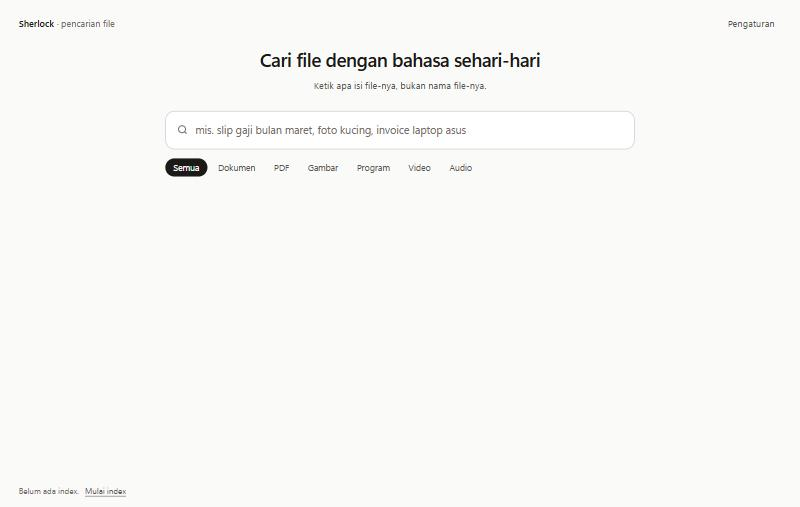
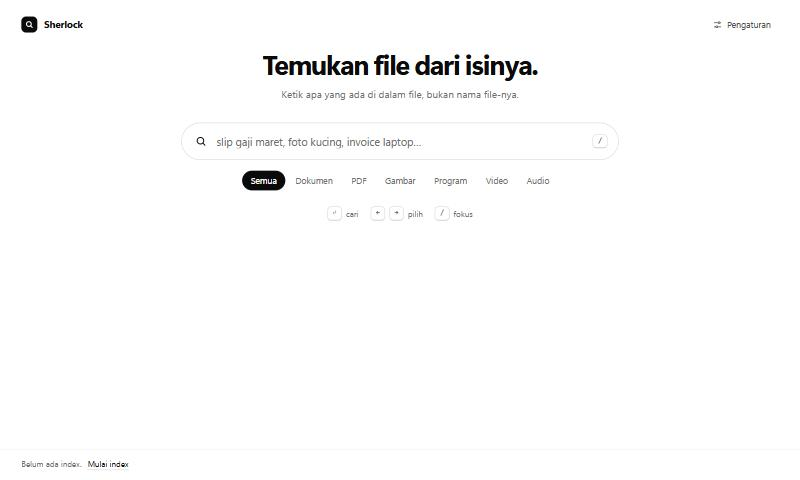
Restyle UI: minimal black and white
Pure neutral palette with dark mode, pill search with keyboard hints,
"/" to focus search, cleaner gallery cards and grouped settings.
Updates the README screenshot.

diff --git a/ui.html b/ui.html
@@ -6,13 +6,15 @@
 <title>Sherlock</title>
 <style>
 :root {
-  --bg: #fafaf9; --surface: #ffffff; --text: #1c1917; --muted: #57534e; --faint: #736c67;
-  --line: #e7e5e4; --hover: #f5f5f4; --accent: #1c1917; --accent-text: #fafaf9; --danger: #b91c1c;
+  --bg: #ffffff; --surface: #ffffff; --sunken: #f6f6f6; --text: #0a0a0a; --muted: #4a4a4a; --faint: #6e6e6e;
+  --line: #e8e8e8; --line-strong: #d4d4d4; --hover: #f4f4f4; --accent: #0a0a0a; --accent-text: #ffffff;
+  --shadow: 0 1px 2px rgba(0,0,0,.04), 0 8px 24px rgba(0,0,0,.06);
 }
 @media (prefers-color-scheme: dark) {
   :root {
-    --bg: #111110; --surface: #191918; --text: #eeeeec; --muted: #b8b6b0; --faint: #93918a;
-    --line: #2a2a28; --hover: #222221; --accent: #eeeeec; --accent-text: #111110; --danger: #f87171;
+    --bg: #0a0a0a; --surface: #111111; --sunken: #161616; --text: #f5f5f5; --muted: #b5b5b5; --faint: #8f8f8f;
+    --line: #232323; --line-strong: #333333; --hover: #1a1a1a; --accent: #f5f5f5; --accent-text: #0a0a0a;
+    --shadow: 0 1px 2px rgba(0,0,0,.4), 0 8px 24px rgba(0,0,0,.5);
   }
 }
 * { box-sizing: border-box; margin: 0; }
@@ -24,149 +26,180 @@ body {
 }
 button, input, select { font: inherit; color: inherit; }
 button { cursor: pointer; background: none; border: 0; }
+:focus-visible { outline: 1.5px solid var(--text); outline-offset: 2px; }
 .app { height: 100%; display: flex; flex-direction: column; }
 
-header { display: flex; align-items: center; justify-content: space-between; padding: 18px 28px; }
-.brand { font-weight: 600; letter-spacing: -0.01em; }
-.brand span { color: var(--faint); font-weight: 400; }
-.icon-btn { padding: 6px 10px; border-radius: 8px; color: var(--muted); }
-.icon-btn:hover { background: var(--hover); color: var(--text); }
+/* header */
+header { display: flex; align-items: center; justify-content: space-between; padding: 20px 32px; }
+.brand { display: flex; align-items: center; gap: 10px; font-weight: 650; font-size: 15px; letter-spacing: -0.02em; }
+.mark { width: 24px; height: 24px; border-radius: 7px; background: var(--accent); color: var(--accent-text); display: grid; place-items: center; }
+.ghost { display: inline-flex; align-items: center; gap: 7px; padding: 7px 12px; border-radius: 999px; color: var(--muted); font-size: 13px; transition: background .15s, color .15s; }
+.ghost:hover { background: var(--hover); color: var(--text); }
 
-main { flex: 1; overflow: hidden; display: flex; flex-direction: column; width: 100%; max-width: 1180px; margin: 0 auto; padding: 0 28px; }
-main.empty { justify-content: center; padding-bottom: 12vh; max-width: 760px; }
-main:not(.empty) .search, main:not(.empty) .filters { width: 100%; max-width: 760px; }
-.hero { text-align: center; margin-bottom: 28px; }
-.hero h1 { font-size: 28px; font-weight: 600; letter-spacing: -0.02em; }
-.hero p { color: var(--muted); margin-top: 6px; }
-main:not(.empty) .hero { display: none; }
+/* main */
+main { flex: 1; overflow: hidden; display: flex; flex-direction: column; width: 100%; max-width: 1200px; margin: 0 auto; padding: 0 32px; }
+main.empty { justify-content: center; padding-bottom: 14vh; max-width: 720px; }
+main:not(.empty) .search, main:not(.empty) .filters { width: 100%; max-width: 720px; }
+.hero { text-align: center; margin-bottom: 32px; }
+.hero h1 { font: 650 40px/1.1 "Segoe UI Variable Display", "Segoe UI", system-ui, sans-serif; letter-spacing: -0.035em; }
+.hero p { color: var(--faint); margin-top: 12px; font-size: 15px; }
+main:not(.empty) .hero, main:not(.empty) .hints { display: none; }
 
 .search {
-  display: flex; align-items: center; gap: 10px; background: var(--surface);
-  border: 1px solid var(--line); border-radius: 14px; padding: 4px 6px 4px 16px;
+  display: flex; align-items: center; gap: 12px; height: 56px; padding: 0 10px 0 20px;
+  background: var(--surface); border: 1px solid var(--line-strong); border-radius: 999px;
   transition: border-color .15s, box-shadow .15s;
 }
-.search:focus-within { border-color: var(--faint); box-shadow: 0 0 0 4px var(--hover); }
-.search svg { flex: none; color: var(--faint); }
-.search input { flex: 1; border: 0; outline: 0; background: none; padding: 12px 0; font-size: 16px; min-width: 0; }
+.search:hover { border-color: var(--faint); }
+.search:focus-within { border-color: var(--text); box-shadow: var(--shadow); }
+.search svg { flex: none; color: var(--text); }
+.search input { flex: 1; border: 0; outline: 0; background: none; font-size: 16px; min-width: 0; }
 .search input::placeholder { color: var(--faint); }
+kbd {
+  font: 500 11px/1 "Cascadia Mono", Consolas, monospace; color: var(--faint);
+  border: 1px solid var(--line-strong); border-bottom-width: 2px; border-radius: 6px; padding: 4px 7px; background: var(--surface);
+}
+.search kbd { margin-right: 6px; }
+.search:focus-within kbd { opacity: 0; }
+.hints { display: flex; justify-content: center; gap: 18px; margin-top: 18px; color: var(--faint); font-size: 12px; }
+.hints span { display: inline-flex; align-items: center; gap: 6px; }
 
-.filters { display: flex; gap: 4px; margin: 14px 0 8px; flex-wrap: wrap; }
-.chip { padding: 4px 12px; border-radius: 999px; color: var(--muted); font-size: 13px; }
-.chip:hover { background: var(--hover); color: var(--text); }
+.filters { display: flex; gap: 2px; margin: 16px 0 6px; flex-wrap: wrap; }
+main.empty .filters { justify-content: center; }
+.chip { padding: 5px 13px; border-radius: 999px; color: var(--faint); font-size: 13px; transition: background .15s, color .15s; }
+.chip:hover { color: var(--text); background: var(--hover); }
 .chip.on { background: var(--accent); color: var(--accent-text); }
 
-.meta { color: var(--faint); font-size: 12px; padding: 6px 2px; min-height: 30px; }
+.meta { color: var(--faint); font-size: 12px; padding: 10px 2px 12px; min-height: 40px; font-variant-numeric: tabular-nums; }
+
+/* gallery */
 .results {
-  flex: 1; overflow-y: auto; margin: 0 -6px; padding: 4px 6px 28px; align-content: start;
-  display: grid; grid-template-columns: repeat(auto-fill, minmax(176px, 1fr)); gap: 18px 16px;
+  flex: 1; overflow-y: auto; margin: 0 -8px; padding: 4px 8px 32px; align-content: start;
+  display: grid; grid-template-columns: repeat(auto-fill, minmax(184px, 1fr)); gap: 26px 18px;
 }
-.card { min-width: 0; cursor: default; border-radius: 12px; outline: none; }
+.card { min-width: 0; cursor: default; outline: none; }
 .thumb {
-  position: relative; aspect-ratio: 4 / 3; border-radius: 12px; overflow: hidden;
-  background: var(--surface); border: 1px solid var(--line); transition: border-color .15s, box-shadow .15s;
+  position: relative; aspect-ratio: 4 / 3; border-radius: 10px; overflow: hidden;
+  background: var(--sunken); border: 1px solid var(--line);
+  transition: border-color .15s, box-shadow .2s, transform .2s;
 }
-.thumb img { position: absolute; inset: 0; width: 100%; height: 100%; object-fit: cover; display: block; opacity: 0; transition: opacity .25s; }
-.acts { z-index: 1; }
+.thumb img { position: absolute; inset: 0; width: 100%; height: 100%; object-fit: cover; display: block; opacity: 0; transition: opacity .3s; }
 .thumb img.ok { opacity: 1; }
 .thumb img.page { object-position: top center; }
 .thumb:has(img.page.ok) { background: #fff; }
-.tile {
-  position: absolute; inset: 0; display: grid; place-items: center; background: var(--hover);
-}
-.tile span {
-  font-size: 13px; font-weight: 600; letter-spacing: .06em; text-transform: uppercase; color: var(--muted);
-  padding: 7px 12px; border: 1px solid var(--line); border-radius: 8px; background: var(--surface);
-}
-.card:hover .thumb, .card.sel .thumb { border-color: var(--faint); }
-.card.sel .thumb { box-shadow: 0 0 0 3px var(--hover); }
+.tile { position: absolute; inset: 0; display: grid; place-items: center; }
+.tile span { font: 600 12px/1 "Cascadia Mono", Consolas, monospace; letter-spacing: .08em; text-transform: uppercase; color: var(--faint); }
+.card:hover .thumb { border-color: var(--line-strong); box-shadow: var(--shadow); transform: translateY(-2px); }
+.card.sel .thumb { border-color: var(--text); box-shadow: 0 0 0 1px var(--text); }
 .acts {
-  position: absolute; right: 8px; bottom: 8px; display: flex; gap: 6px; opacity: 0; transform: translateY(4px);
-  transition: opacity .15s, transform .15s;
+  position: absolute; right: 8px; bottom: 8px; z-index: 1; display: flex; gap: 6px;
+  opacity: 0; transform: translateY(4px); transition: opacity .15s, transform .15s;
 }
 .card:hover .acts, .card.sel .acts { opacity: 1; transform: none; }
 .act {
-  padding: 4px 10px; border-radius: 7px; font-size: 12px; color: var(--text);
-  background: var(--surface); border: 1px solid var(--line); box-shadow: 0 1px 3px rgba(0,0,0,.08);
+  padding: 5px 11px; border-radius: 999px; font-size: 12px; font-weight: 500;
+  background: var(--surface); color: var(--text); border: 1px solid var(--line-strong);
 }
-.act:hover { border-color: var(--faint); }
-.info { padding: 8px 2px 0; }
+.act[data-a="open"] { background: var(--accent); color: var(--accent-text); border-color: var(--accent); }
+.act:hover { filter: brightness(.94); }
+.info { padding: 10px 2px 0; }
 .name {
-  font-weight: 500; font-size: 13px; line-height: 1.35; overflow: hidden;
+  font-weight: 550; font-size: 13px; line-height: 1.35; letter-spacing: -0.005em; overflow: hidden;
   display: -webkit-box; -webkit-line-clamp: 2; -webkit-box-orient: vertical; word-break: break-word;
 }
-.sub { display: flex; gap: 8px; margin-top: 3px; color: var(--faint); font-size: 12px; }
+.sub { display: flex; gap: 8px; margin-top: 4px; color: var(--faint); font-size: 12px; }
 .sub .dir { flex: 1; min-width: 0; white-space: nowrap; overflow: hidden; text-overflow: ellipsis; }
 .sub .score { font-variant-numeric: tabular-nums; }
-.nores { grid-column: 1 / -1; text-align: center; color: var(--muted); padding: 48px 0; }
+.nores { grid-column: 1 / -1; text-align: center; color: var(--faint); padding: 64px 0; }
 
-footer { padding: 10px 28px 14px; display: flex; align-items: center; gap: 14px; color: var(--faint); font-size: 12px; }
+/* footer */
+footer { padding: 12px 32px 14px; display: flex; align-items: center; gap: 14px; color: var(--faint); font-size: 12px; border-top: 1px solid var(--line); }
 footer .grow { flex: 1; white-space: nowrap; overflow: hidden; text-overflow: ellipsis; }
-.bar { height: 2px; background: var(--line); border-radius: 2px; overflow: hidden; width: 160px; display: none; }
+.bar { height: 2px; background: var(--line); border-radius: 2px; overflow: hidden; width: 180px; display: none; }
 .bar i { display: block; height: 100%; width: 0; background: var(--text); transition: width .3s; }
 .running .bar { display: block; }
-.link { color: var(--muted); text-decoration: underline; text-underline-offset: 3px; }
-.link:hover { color: var(--text); }
+.link { color: var(--text); text-decoration: underline; text-decoration-color: var(--line-strong); text-underline-offset: 3px; }
+.link:hover { text-decoration-color: var(--text); }
 
 /* settings drawer */
-.scrim { position: fixed; inset: 0; background: rgba(0,0,0,.18); opacity: 0; pointer-events: none; transition: opacity .2s; }
+.scrim { position: fixed; inset: 0; background: rgba(0,0,0,.24); backdrop-filter: blur(2px); opacity: 0; pointer-events: none; transition: opacity .2s; }
 .drawer {
-  position: fixed; top: 0; right: 0; bottom: 0; width: 380px; max-width: 100%;
-  background: var(--surface); border-left: 1px solid var(--line); padding: 24px 26px;
-  transform: translateX(100%); transition: transform .22s ease; display: flex; flex-direction: column; gap: 18px; overflow-y: auto;
+  position: fixed; top: 0; right: 0; bottom: 0; width: 420px; max-width: 100%;
+  background: var(--surface); border-left: 1px solid var(--line); padding: 22px 28px 28px;
+  transform: translateX(100%); transition: transform .24s cubic-bezier(.2,.8,.2,1);
+  display: flex; flex-direction: column; gap: 20px; overflow-y: auto;
 }
 .open .scrim { opacity: 1; pointer-events: auto; }
 .open .drawer { transform: none; }
-.drawer h2 { font-size: 16px; font-weight: 600; display: flex; justify-content: space-between; align-items: center; }
-.field label { display: block; font-size: 12px; color: var(--muted); margin-bottom: 6px; }
-.field .hint { font-size: 12px; color: var(--faint); margin-top: 5px; }
+.drawer h2 { font-size: 18px; font-weight: 650; letter-spacing: -0.02em; display: flex; justify-content: space-between; align-items: center; }
+.section { font: 600 11px/1 "Segoe UI", system-ui, sans-serif; letter-spacing: .1em; text-transform: uppercase; color: var(--faint); padding-top: 6px; }
+.field label { display: flex; justify-content: space-between; font-size: 13px; font-weight: 550; margin-bottom: 8px; }
+.field .hint { font-size: 12px; color: var(--faint); margin-top: 7px; line-height: 1.45; }
 .input {
-  width: 100%; padding: 9px 12px; border: 1px solid var(--line); border-radius: 9px; background: var(--bg); outline: 0;
+  width: 100%; height: 38px; padding: 0 12px; border: 1px solid var(--line-strong); border-radius: 8px;
+  background: var(--surface); outline: 0; transition: border-color .15s;
 }
-.input:focus { border-color: var(--faint); }
+.input:hover { border-color: var(--faint); }
+.input:focus { border-color: var(--text); }
 .inline { display: flex; gap: 8px; }
-.btn { padding: 9px 14px; border-radius: 9px; border: 1px solid var(--line); background: var(--surface); white-space: nowrap; }
-.btn:hover { border-color: var(--faint); }
-.btn.primary { background: var(--accent); color: var(--accent-text); border-color: var(--accent); }
-.btn.primary:hover { opacity: .9; }
-.btn:disabled { opacity: .45; cursor: default; }
+.btn {
+  height: 38px; padding: 0 14px; border-radius: 8px; border: 1px solid var(--line-strong);
+  background: var(--surface); white-space: nowrap; font-weight: 500; transition: border-color .15s, background .15s;
+}
+.btn:hover { border-color: var(--text); }
+.btn.primary { background: var(--accent); color: var(--accent-text); border-color: var(--accent); height: 42px; }
+.btn.primary:hover { filter: brightness(1.25); }
+.btn:disabled { opacity: .4; cursor: default; }
 .sep { height: 1px; background: var(--line); }
-.keys { display: flex; flex-direction: column; margin-bottom: 8px; border: 1px solid var(--line); border-radius: 9px; overflow: hidden; }
+.keys { display: flex; flex-direction: column; margin-bottom: 8px; border: 1px solid var(--line); border-radius: 8px; overflow: hidden; }
 .keys:empty { display: none; }
-#excludes { max-height: 232px; overflow-y: auto; }
-.key { display: flex; align-items: center; gap: 10px; padding: 7px 8px 7px 12px; font-size: 13px; }
+#excludes { max-height: 220px; overflow-y: auto; }
+.key { display: flex; align-items: center; gap: 10px; padding: 8px 8px 8px 12px; font-size: 13px; }
 .key + .key { border-top: 1px solid var(--line); }
-.key .n { color: var(--faint); font-variant-numeric: tabular-nums; width: 18px; }
+.key:hover { background: var(--hover); }
+.key .n { color: var(--faint); font-variant-numeric: tabular-nums; width: 16px; }
 .key code { flex: 1; font-family: "Cascadia Mono", Consolas, monospace; font-size: 12px; color: var(--muted); overflow: hidden; text-overflow: ellipsis; white-space: nowrap; }
 .key button { color: var(--faint); font-size: 12px; padding: 3px 8px; border-radius: 6px; }
-.key button:hover { color: var(--danger); background: var(--hover); }
-#keyCount { color: var(--faint); }
-.err { color: var(--danger); font-size: 12px; min-height: 18px; }
+.key button:hover { color: var(--text); text-decoration: underline; text-underline-offset: 3px; }
+#keyCount, #exCount { color: var(--faint); font-weight: 400; }
+.err { color: var(--text); font-size: 12px; font-weight: 550; min-height: 18px; }
+.err:not(:empty)::before { content: "! "; }
 .toast {
-  position: fixed; left: 50%; bottom: 52px; transform: translate(-50%, 10px); background: var(--accent); color: var(--accent-text);
-  padding: 8px 14px; border-radius: 9px; font-size: 13px; opacity: 0; pointer-events: none; transition: .2s; max-width: 80%;
+  position: fixed; left: 50%; bottom: 60px; transform: translate(-50%, 10px); background: var(--accent); color: var(--accent-text);
+  padding: 9px 16px; border-radius: 999px; font-size: 13px; opacity: 0; pointer-events: none; transition: .2s; max-width: 80%;
+  box-shadow: var(--shadow);
 }
 .toast.show { opacity: 1; transform: translate(-50%, 0); }
-::-webkit-scrollbar { width: 10px; }
-::-webkit-scrollbar-thumb { background: var(--line); border-radius: 10px; border: 3px solid var(--bg); }
+::-webkit-scrollbar { width: 10px; height: 10px; }
+::-webkit-scrollbar-thumb { background: var(--line-strong); border-radius: 10px; border: 3px solid var(--bg); }
+::-webkit-scrollbar-track { background: transparent; }
 </style>
 </head>
 <body>
 <div class="app" id="app">
   <header>
-    <div class="brand">Sherlock <span>· pencarian file</span></div>
-    <button class="icon-btn" id="openSettings" title="Pengaturan">Pengaturan</button>
+    <div class="brand">
+      <span class="mark"><svg width="13" height="13" viewBox="0 0 24 24" fill="none" stroke="currentColor" stroke-width="3" stroke-linecap="round"><circle cx="10.5" cy="10.5" r="6.5"/><path d="m20 20-4.5-4.5"/></svg></span>
+      Sherlock
+    </div>
+    <button class="ghost" id="openSettings" title="Pengaturan">
+      <svg width="15" height="15" viewBox="0 0 24 24" fill="none" stroke="currentColor" stroke-width="1.8" stroke-linecap="round" stroke-linejoin="round"><path d="M4 7h10M18 7h2M4 17h4M12 17h8"/><circle cx="16" cy="7" r="2"/><circle cx="10" cy="17" r="2"/></svg>
+      Pengaturan
+    </button>
   </header>
 
   <main id="main" class="empty">
     <div class="hero">
-      <h1>Cari file dengan bahasa sehari-hari</h1>
-      <p>Ketik apa isi file-nya, bukan nama file-nya.</p>
+      <h1>Temukan file dari isinya.</h1>
+      <p>Ketik apa yang ada di dalam file, bukan nama file-nya.</p>
     </div>
     <form class="search" id="form" autocomplete="off">
-      <svg width="18" height="18" viewBox="0 0 24 24" fill="none" stroke="currentColor" stroke-width="2" stroke-linecap="round"><circle cx="11" cy="11" r="7"/><path d="m20 20-3.5-3.5"/></svg>
-      <input id="q" placeholder="mis. slip gaji bulan maret, foto kucing, invoice laptop asus" autofocus>
+      <svg width="18" height="18" viewBox="0 0 24 24" fill="none" stroke="currentColor" stroke-width="2" stroke-linecap="round"><circle cx="10.5" cy="10.5" r="6.5"/><path d="m20 20-4.5-4.5"/></svg>
+      <input id="q" placeholder="slip gaji maret, foto kucing, invoice laptop…" autofocus>
+      <kbd>/</kbd>
     </form>
     <div class="filters" id="filters"></div>
+    <div class="hints"><span><kbd>↵</kbd> cari</span><span><kbd>←</kbd><kbd>→</kbd> pilih</span><span><kbd>/</kbd> fokus</span></div>
     <div class="meta" id="meta"></div>
     <div class="results" id="results"></div>
   </main>
@@ -180,9 +213,11 @@ footer .grow { flex: 1; white-space: nowrap; overflow: hidden; text-overflow: el
 
 <div class="scrim" id="scrim"></div>
 <aside class="drawer" id="drawer">
-  <h2>Pengaturan <button class="icon-btn" id="closeSettings">Tutup</button></h2>
+  <h2>Pengaturan <button class="ghost" id="closeSettings">Tutup</button></h2>
+
+  <div class="section">Gemini</div>
   <div class="field">
-    <label>API key Gemini <span id="keyCount"></span></label>
+    <label>API key <span id="keyCount"></span></label>
     <div class="keys" id="keys"></div>
     <div class="inline">
       <input class="input" id="key" type="password" placeholder="Tempel API key baru">
@@ -190,27 +225,31 @@ footer .grow { flex: 1; white-space: nowrap; overflow: hidden; text-overflow: el
     </div>
     <div class="hint" id="keyHint">Key dipakai bergiliran. Kalau satu kena limit, otomatis pindah ke key berikutnya.</div>
   </div>
-  <div class="field">
-    <label>Model</label>
-    <input class="input" id="model">
+  <div class="inline">
+    <div class="field" style="flex:1">
+      <label>Model</label>
+      <input class="input" id="model">
+    </div>
+    <div class="field" style="width:110px">
+      <label>Dimensi</label>
+      <select class="input" id="dim"><option>768</option><option>1536</option><option>3072</option></select>
+    </div>
   </div>
-  <div class="field">
-    <label>Dimensi embedding</label>
-    <select class="input" id="dim"><option>768</option><option>1536</option><option>3072</option></select>
-    <div class="hint">Mengganti model/dimensi akan membuat index ulang dari awal.</div>
-  </div>
+  <div class="hint" style="margin-top:-12px;font-size:12px;color:var(--faint)">Mengganti model atau dimensi membuat index ulang dari awal.</div>
   <button class="btn" id="saveBtn">Simpan</button>
+
   <div class="sep"></div>
+  <div class="section">Index</div>
   <div class="field">
-    <label>Folder yang di-index</label>
+    <label>Folder</label>
     <div class="inline">
       <input class="input" id="folder">
       <button class="btn" id="pickBtn">Pilih</button>
     </div>
-    <div class="hint">Termasuk semua subfolder. Hanya file baru/berubah yang dikirim ulang.</div>
+    <div class="hint">Termasuk semua subfolder. Hanya file baru atau berubah yang dikirim ulang.</div>
   </div>
   <div class="field">
-    <label>Folder yang dikecualikan <span id="exCount"></span></label>
+    <label>Dikecualikan <span id="exCount"></span></label>
     <div class="keys" id="excludes"></div>
     <button class="btn" id="addExBtn">Tambah folder</button>
     <div class="hint">File di folder ini tidak di-index dan langsung dihapus dari index.</div>
@@ -312,13 +351,13 @@ function fillConfig(c) {
   $('model').value = c.model; $('dim').value = c.dim; $('folder').value = c.folder;
   $('key').value = '';
   const keys = c.keys || [];
-  $('keyCount').textContent = keys.length ? `· ${keys.length}` : '';
+  $('keyCount').textContent = keys.length ? `${keys.length} key` : '';
   $('keys').innerHTML = keys.map((k, i) => `<div class="key"><span class="n">${i + 1}</span><code>${esc(k)}</code><button data-i="${i}">Hapus</button></div>`).join('');
   $('keyHint').textContent = c.fake ? 'Mode uji (tanpa API).' : keys.length
     ? 'Key dipakai bergiliran. Kalau satu kena limit, otomatis pindah ke key berikutnya.'
     : 'Belum ada key. Buat di aistudio.google.com/apikey';
   const ex = c.exclude || [];
-  $('exCount').textContent = ex.length ? `· ${ex.length}` : '';
+  $('exCount').textContent = ex.length ? `${ex.length} folder` : '';
   $('exCount').style.color = 'var(--faint)';
   $('excludes').innerHTML = ex.map((p, i) => `<div class="key" title="${esc(p)}"><code>${esc(lastDir(p))}</code><button data-i="${i}">Hapus</button></div>`).join('');
 }
@@ -397,6 +436,10 @@ async function poll() {
     if (!cfg.has_key) openDrawer();
   } catch (e) { $('foot').textContent = e.message; }
 })();
+// "/" jumps to the search box from anywhere
+document.addEventListener('keydown', e => {
+  if (e.key === '/' && !/INPUT|SELECT|TEXTAREA/.test(document.activeElement.tagName)) { e.preventDefault(); $('q').focus(); $('q').select(); }
+});
 </script>
 </body>
 </html>
